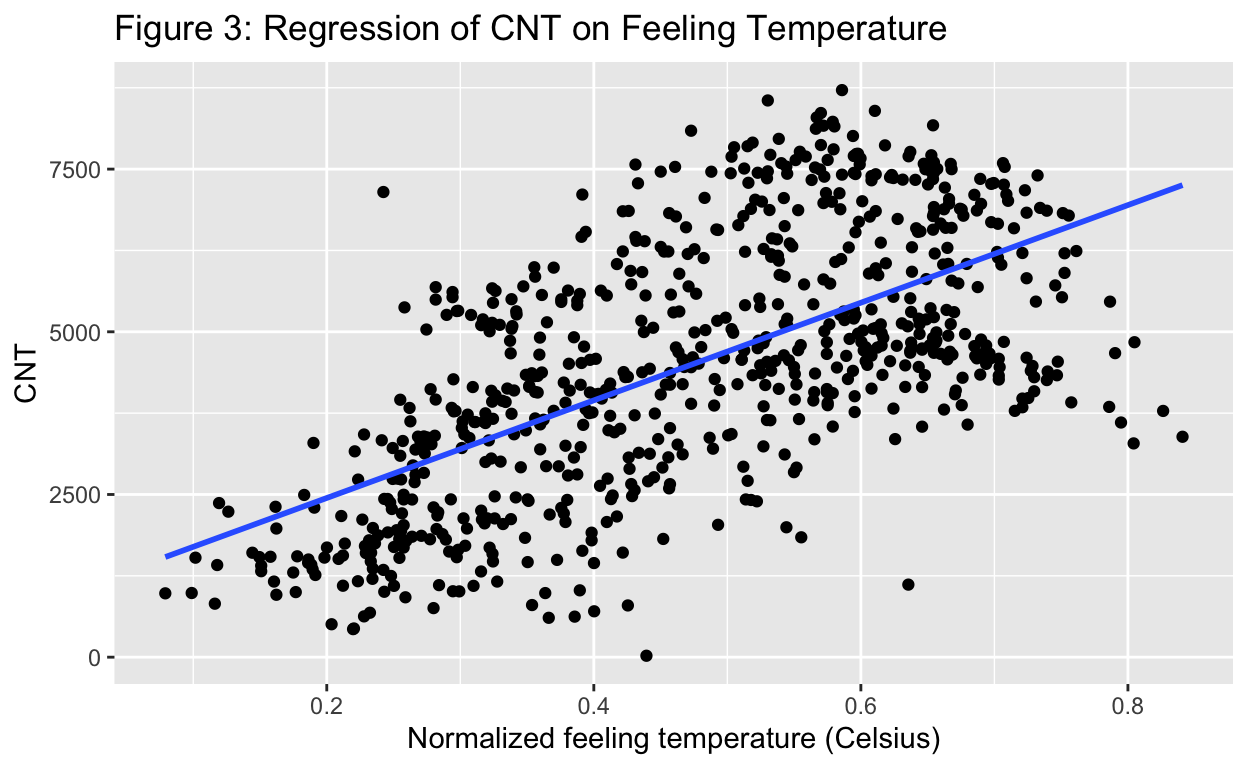
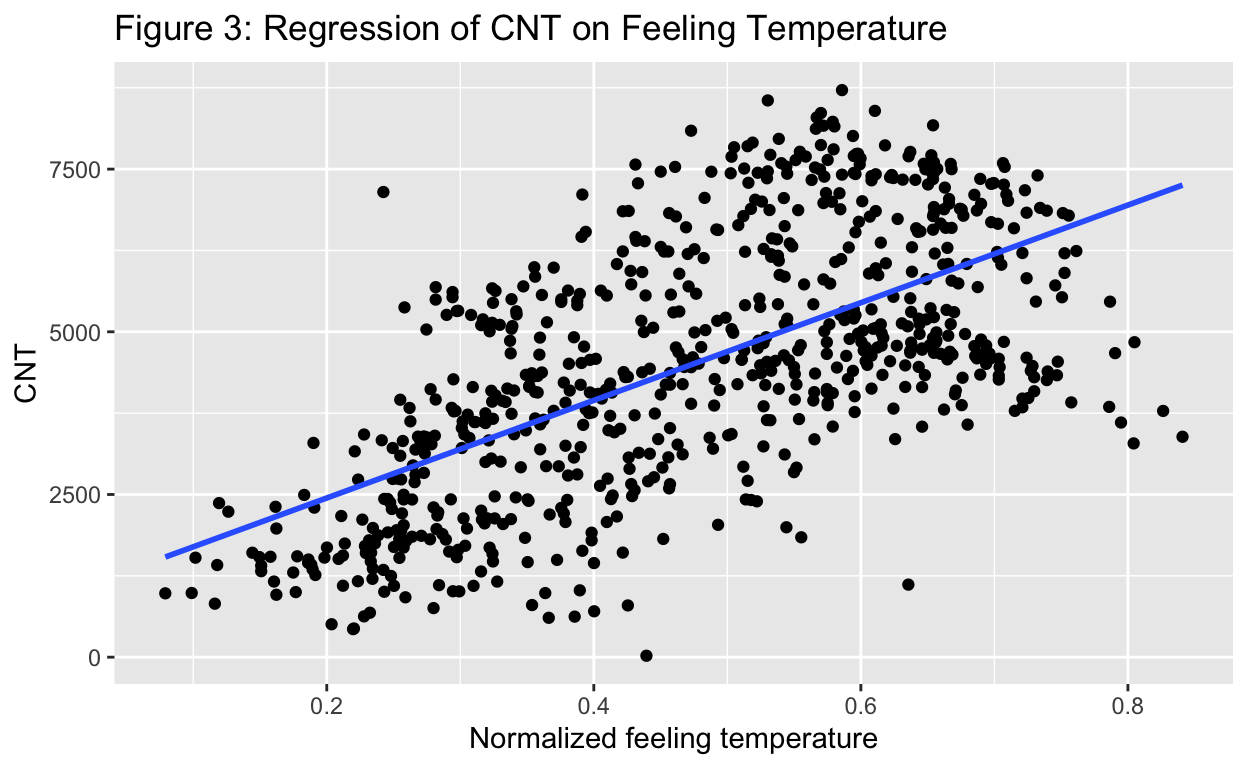
working on result part

Changed region(s): [[0.3125, 0.9375, 0.75, 1.0]]

diff --git a/index.html b/index.html
@@ -1522,7 +1522,8 @@ code span.wa { color: #5e5e5e; font-style: italic; } /* Warning */
 <pre class="sourceCode r"><code class="sourceCode r"><span><span class='fu'><a href='https://rdrr.io/r/base/options.html'>options</a></span><span class='op'>(</span>width <span class='op'>=</span> <span class='fl'>100</span><span class='op'>)</span></span>
 <span><span class='kw'><a href='https://rdrr.io/r/base/library.html'>library</a></span><span class='op'>(</span><span class='va'><a href='https://github.com/tidymodels/infer'>infer</a></span><span class='op'>)</span></span>
 <span><span class='kw'><a href='https://rdrr.io/r/base/library.html'>library</a></span><span class='op'>(</span><span class='va'><a href='https://tidyverse.tidyverse.org'>tidyverse</a></span><span class='op'>)</span></span>
-<span><span class='kw'><a href='https://rdrr.io/r/base/library.html'>library</a></span><span class='op'>(</span><span class='va'><a href='https://ggplot2.tidyverse.org'>ggplot2</a></span><span class='op'>)</span></span></code></pre>
+<span><span class='kw'><a href='https://rdrr.io/r/base/library.html'>library</a></span><span class='op'>(</span><span class='va'><a href='https://ggplot2.tidyverse.org'>ggplot2</a></span><span class='op'>)</span></span>
+<span><span class='kw'><a href='https://rdrr.io/r/base/library.html'>library</a></span><span class='op'>(</span><span class='va'><a href='https://dplyr.tidyverse.org'>dplyr</a></span><span class='op'>)</span></span></code></pre>
 </div>
 </div>
 <h2 id="introduction">Introduction</h2>
@@ -1531,9 +1532,14 @@ code span.wa { color: #5e5e5e; font-style: italic; } /* Warning */
 <li>hypothesis</li>
 <li>briefly describe why it is interesting</li>
 </ul>
+<p>is a shared transport service where bicycles are available for shared use by individuals at low cost.
+by 2022, approximately 3,000 cities worldwide offer bike-sharing systems</p>
+<p>Bike sharing systems are new generation of traditional bike rentals where whole process from membership, rental and return back has become automatic. Through these systems, user is able to easily rent a bike from a particular position and return back at another position. Currently, there are about over 500 bike-sharing programs around the world which is composed of over 500 thousands bicycles. Today, there exists great interest in these systems due to their important role in traffic, environmental and health issues.</p>
+<p>Apart from interesting real world applications of bike sharing systems, the characteristics of data being generated by these systems make them attractive for the research. Opposed to other transport services such as bus or subway, the duration of travel, departure and arrival position is explicitly recorded in these systems. This feature turns bike sharing system into a virtual sensor network that can be used for sensing mobility in the city. Hence, it is expected that most of important events in the city could be detected via monitoring these data.</p>
+<p>Does unified government enhance legislative productivity? In this study, I plan to examine the extent to which periods of unified government produce more landmark laws. I hypothesize that legislative productivity increases during periods of unified government in which one party controls both Houses of Congress and the presidency relative to periods of divided government. During periods of unified government, I expect that it is more likely for major bills to pass both Houses and gain the president’s signature. During periods of divided government, it is more difficult to reach a consensus around legislation that can pass each House and gain the president’s approval. My sample is comprised of each of the 79th (1945-1946) through 103rd (1993-1994) Congresses. My unit of analysis is a Congress (e.g., the 88th Congress). The explanatory variable of interest is whether there is unified government (both Houses and the presidency are controlled by the same party) or divided government. The variable is coded =1 for unified government and =0 for divided government. My outcome variable is the count of landmark pieces of legislation passed in a given Congress. For instance, if the variable were coded =11, it would mean that 11 pieces of landmark legislation were signed into law in that Congress. This variable is measured from David Mayhew’s data set on landmark legislation and relies on Mayhew’s expert knowledge to classify legislation as “landmark.” If I observe greater landmark legislative productivity under unified government relative to divided government, this would provide support for my hypothesis. If, on the other hand, I observe less productivity or the same level of productivity under unified government, this would provide evidence against my hypothesis. When I run my regression of the count of landmark legislation on the unified government indicator variable, a positive, significant coefficient would indicate support for my hypothesis.</p>
 <h2 id="data">Data</h2>
-<p>This dataset is based on the system data of a bike sharing company, Capital Bikeshare and weather information from <a href="http://www.freemeteo.com" class="uri">http://www.freemeteo.com</a>, showing the daily count of rental bikes between years 2011 and 2012 in the system with the corresponding weather conditions.</p>
-<p>The following table shows the variables excerpted from the raw dataset. It has 6 independent variables, including <code>workingday</code>, <code>weathersit</code>, <code>temp</code>, <code>atemp</code>, <code>hum</code>, and <code>windspeed</code> and 1 dependent variable, <code>cnt</code>. Precisely, the <code>cnt</code> is a discrete variable of the total number of bikes borrowed by both casual and registered users. The <code>workingday</code> is a dichotomous variable; if the day is neither weekend nor holiday is 1, otherwise is 0. The <code>weathersit</code> is a categorical variable coded from 1 to 4 in accordance with the weather inclemency. The <code>temp</code> is the normalized temperature in Celsius; the values are derived via <span class="math inline">\(\frac{t - t_{min}}{t_{max} - t_{min}}\)</span>, where <span class="math inline">\(t_{min} = -8\)</span>, <span class="math inline">\(t_{max} = +39\)</span> in hourly scale. The <code>atemp</code> is the normalized feeling temperature in Celsius; the values are derived via <span class="math inline">\(\frac{t - t_{min}}{t_{max} - t_{min}}\)</span>, where <span class="math inline">\(t_{min} = -16\)</span>, <span class="math inline">\(t_{max} = +50\)</span> in hourly scale. The <code>hum</code> is the normalized humidity where the values are divided to 100. The <code>windspeed</code> is the normalized wind speed where the value are divided to 67.</p>
+<p>This dataset is based on the system data of a bike sharing company, Washington, D.C.’s Capital Bikeshare and weather information from <a href="http://www.freemeteo.com" class="uri">http://www.freemeteo.com</a>, showing the daily count of rental bikes between years 2011 and 2012 in the system with the corresponding weather conditions.</p>
+<p>The following table shows the variables excerpted from the raw dataset. It has 6 independent variables, including <code>workingday</code>, <code>weathersit</code>, <code>temp</code>, <code>atemp</code>, <code>hum</code>, and <code>windspeed</code> and 1 dependent variable, <code>cnt</code>. Precisely, the <code>cnt</code> is a discrete variable of the total number of bikes borrowed by both casual and registered users. The <code>workingday</code> is a dichotomous variable; if the day is neither weekend nor holiday is 1, otherwise is 0. The <code>weathersit</code> is a categorical variable coded from 1 to 4 in accordance with the weather inclemency. The <code>temp</code> is the normalized temperature in Celsius whose values are derived via <span class="math inline">\(\frac{t - t_{min}}{t_{max} - t_{min}}\)</span>. The <code>atemp</code> is the normalized feeling temperature in Celsius whose values are derived via <span class="math inline">\(\frac{t - t_{min}}{t_{max} - t_{min}}\)</span>. The <code>hum</code> is the normalized humidity where the values are divided to 100. The <code>windspeed</code> is the normalized wind speed where the values are divided to 67.</p>
 <p>This is a cross-sectional study that runs a bivariate regression of <code>cnt</code> on <code>weathersit</code> to explores the relationship between the count of rental bikes and weather inclemency and then a multivariate regression of <code>cnt</code> on all independent variables to control the confounders.</p>
 <table>
 <colgroup>
@@ -1594,13 +1600,7 @@ code span.wa { color: #5e5e5e; font-style: italic; } /* Warning */
 <p><img src="index_files/figure-html5/unnamed-chunk-2-1.png" width="624" /></p>
 </div>
 <h2 id="result">Result</h2>
-<ul>
-<li>figure 2: one bivariate regression</li>
-<li>one multivariate regression (control confounders)</li>
-<li>separate plots of the main relationship of interest (figure 3, 4, 5)</li>
-<li>a summary and discussion of results in substantive context</li>
-<li>interpret (in plain English) the main coefficient of interest in your regression, comment on the statistical significance of the estimated coefficient, and say whether or not you believe the coefficient to represent a causal effect</li>
-</ul>
+<p>In the bivariate regression, the coefficient of <code>weathersit</code> is -1057.3, which means that a one-point increase in weather inclemency is associated with a decrease in count of total rental bikes of 1057.3 on average. According to the boxplot (Figure 2), as the lower quartile, median, and upper quartile get lower when the weather gets more inclement, the count of total rental bikes tends to decrease when the weather inclemency increases.</p>
 <div class="layout-chunk" data-layout="l-body">
 <div class="sourceCode">
 <pre class="sourceCode r"><code class="sourceCode r"><span><span class='va'>reg_main</span> <span class='op'>&lt;-</span> <span class='fu'><a href='https://rdrr.io/r/stats/lm.html'>lm</a></span> <span class='op'>(</span><span class='va'>cnt</span> <span class='op'>~</span> <span class='va'>weathersit</span>, data <span class='op'>=</span> <span class='va'>df</span><span class='op'>)</span></span>
@@ -1626,15 +1626,27 @@ Multiple R-squared:  0.08844,   Adjusted R-squared:  0.08719
 F-statistic: 70.73 on 1 and 729 DF,  p-value: &lt; 2.2e-16</code></pre>
 <div class="sourceCode">
 <pre class="sourceCode r"><code class="sourceCode r"><span><span class='va'>df</span> <span class='op'>|&gt;</span></span>
-<span>  <span class='fu'><a href='https://ggplot2.tidyverse.org/reference/ggplot.html'>ggplot</a></span><span class='op'>(</span><span class='fu'><a href='https://ggplot2.tidyverse.org/reference/aes.html'>aes</a></span><span class='op'>(</span>x <span class='op'>=</span> <span class='va'>weathersit</span>, y <span class='op'>=</span> <span class='va'>cnt</span><span class='op'>)</span><span class='op'>)</span> <span class='op'>+</span></span>
-<span>  <span class='fu'><a href='https://ggplot2.tidyverse.org/reference/geom_point.html'>geom_point</a></span><span class='op'>(</span><span class='op'>)</span> <span class='op'>+</span></span>
-<span>  <span class='fu'><a href='https://ggplot2.tidyverse.org/reference/geom_smooth.html'>geom_smooth</a></span><span class='op'>(</span>method <span class='op'>=</span> <span class='st'>"lm"</span>, se <span class='op'>=</span> <span class='cn'>FALSE</span><span class='op'>)</span> <span class='op'>+</span></span>
-<span>  <span class='fu'><a href='https://ggplot2.tidyverse.org/reference/labs.html'>labs</a></span><span class='op'>(</span>title <span class='op'>=</span> <span class='st'>"Figure 2: Regression of CNT on Weather Inclemency"</span>,</span>
-<span>       x <span class='op'>=</span> <span class='st'>"Weather Inclemency"</span>,</span>
+<span>  <span class='fu'><a href='https://dplyr.tidyverse.org/reference/mutate.html'>mutate</a></span><span class='op'>(</span></span>
+<span>    weather <span class='op'>=</span> <span class='fu'><a href='https://dplyr.tidyverse.org/reference/case_when.html'>case_when</a></span><span class='op'>(</span></span>
+<span>      <span class='va'>weathersit</span> <span class='op'>==</span> <span class='fl'>1</span> <span class='op'>~</span> <span class='st'>"Sunny or Cloudy"</span>,</span>
+<span>      <span class='va'>weathersit</span> <span class='op'>==</span> <span class='fl'>2</span> <span class='op'>~</span> <span class='st'>"Mist"</span>,</span>
+<span>      <span class='va'>weathersit</span> <span class='op'>==</span> <span class='fl'>3</span> <span class='op'>~</span> <span class='st'>"Light Precipitation"</span>,</span>
+<span>      <span class='va'>weathersit</span> <span class='op'>==</span> <span class='fl'>4</span> <span class='op'>~</span> <span class='st'>"Heavy Precipitation"</span></span>
+<span>    <span class='op'>)</span></span>
+<span>  <span class='op'>)</span> <span class='op'>|&gt;</span></span>
+<span>  <span class='fu'><a href='https://ggplot2.tidyverse.org/reference/ggplot.html'>ggplot</a></span><span class='op'>(</span><span class='fu'><a href='https://ggplot2.tidyverse.org/reference/aes.html'>aes</a></span><span class='op'>(</span>x <span class='op'>=</span> <span class='va'>weather</span>, y <span class='op'>=</span> <span class='va'>cnt</span><span class='op'>)</span><span class='op'>)</span> <span class='op'>+</span></span>
+<span>  <span class='fu'><a href='https://ggplot2.tidyverse.org/reference/geom_boxplot.html'>geom_boxplot</a></span><span class='op'>(</span><span class='op'>)</span> <span class='op'>+</span></span>
+<span>  <span class='fu'><a href='https://ggplot2.tidyverse.org/reference/labs.html'>labs</a></span><span class='op'>(</span>title <span class='op'>=</span> <span class='st'>"Figure 2: Relationship between CNT and Weather"</span>,</span>
+<span>       x <span class='op'>=</span> <span class='st'>"Weather"</span>,</span>
 <span>       y <span class='op'>=</span> <span class='st'>"CNT"</span><span class='op'>)</span></span></code></pre>
 </div>
 <p><img src="index_files/figure-html5/unnamed-chunk-3-1.png" width="624" /></p>
 </div>
+<p>In the multivariate regression, the p-values of <code>weathersit</code>, <code>atemp</code>, <code>hum</code>, and <code>windspeed</code> are smaller than 0.1, so their coefficient are statistically significant at the 0.1 level.</p>
+<p>Precisely, the coefficient of <code>weathersit</code> is -483.3, meaning that holding other variables at a fixed value, a one-point increase in weather inclemency is associated with a decrease in count of total rental bikes of 483.3 on average. The coefficient of <code>atemp</code> is 4483.3, meaning that holding other variables at a fixed value, a one-point increase in normalized feeling temperature is associated with an increase in count of total rental bikes of 4483.3 on average. The coefficient of <code>hum</code> is -1936.8, meaning that holding other variables at a fixed value, a one-point increase in normalized humidity is associated with a decrease in count of total rental bikes of 1936.8 on average. The coefficient of <code>windspeed</code> is -3963.3, meaning that holding other variables at a fixed value, a one-point increase in normalized wind speed is associated with a decrease in count of total rental bikes of 3963.3 on average.</p>
+<p>Also, there is an increase in the coefficient of <code>weathersit</code> in the two models…</p>
+<p><strong>whether or not you believe the coefficient to represent a causal effect</strong>
+<strong>explain confounders of weather</strong></p>
 <div class="layout-chunk" data-layout="l-body">
 <div class="sourceCode">
 <pre class="sourceCode r"><code class="sourceCode r"><span><span class='va'>reg_all</span> <span class='op'>&lt;-</span> <span class='fu'><a href='https://rdrr.io/r/stats/lm.html'>lm</a></span><span class='op'>(</span><span class='va'>cnt</span> <span class='op'>~</span> <span class='va'>workingday</span> <span class='op'>+</span> <span class='va'>weathersit</span> <span class='op'>+</span> <span class='va'>temp</span> <span class='op'>+</span> <span class='va'>atemp</span> <span class='op'>+</span> <span class='va'>hum</span> <span class='op'>+</span> <span class='va'>windspeed</span>, data <span class='op'>=</span> <span class='va'>df</span><span class='op'>)</span></span>
@@ -1672,7 +1684,7 @@ F-statistic: 109.4 on 6 and 724 DF,  p-value: &lt; 2.2e-16</code></pre>
 <span>  <span class='fu'><a href='https://ggplot2.tidyverse.org/reference/geom_point.html'>geom_point</a></span><span class='op'>(</span><span class='op'>)</span> <span class='op'>+</span></span>
 <span>  <span class='fu'><a href='https://ggplot2.tidyverse.org/reference/geom_smooth.html'>geom_smooth</a></span><span class='op'>(</span>method <span class='op'>=</span> <span class='st'>"lm"</span>, se <span class='op'>=</span> <span class='cn'>FALSE</span><span class='op'>)</span> <span class='op'>+</span></span>
 <span>  <span class='fu'><a href='https://ggplot2.tidyverse.org/reference/labs.html'>labs</a></span><span class='op'>(</span>title <span class='op'>=</span> <span class='st'>"Figure 3: Regression of CNT on Feeling Temperature"</span>,</span>
-<span>       x <span class='op'>=</span> <span class='st'>"Normalized feeling temperature (Celsius)"</span>,</span>
+<span>       x <span class='op'>=</span> <span class='st'>"Normalized feeling temperature"</span>,</span>
 <span>       y <span class='op'>=</span> <span class='st'>"CNT"</span><span class='op'>)</span></span></code></pre>
 </div>
 <img src="index_files/figure-html5/unnamed-chunk-5-1.png" width="624" />
